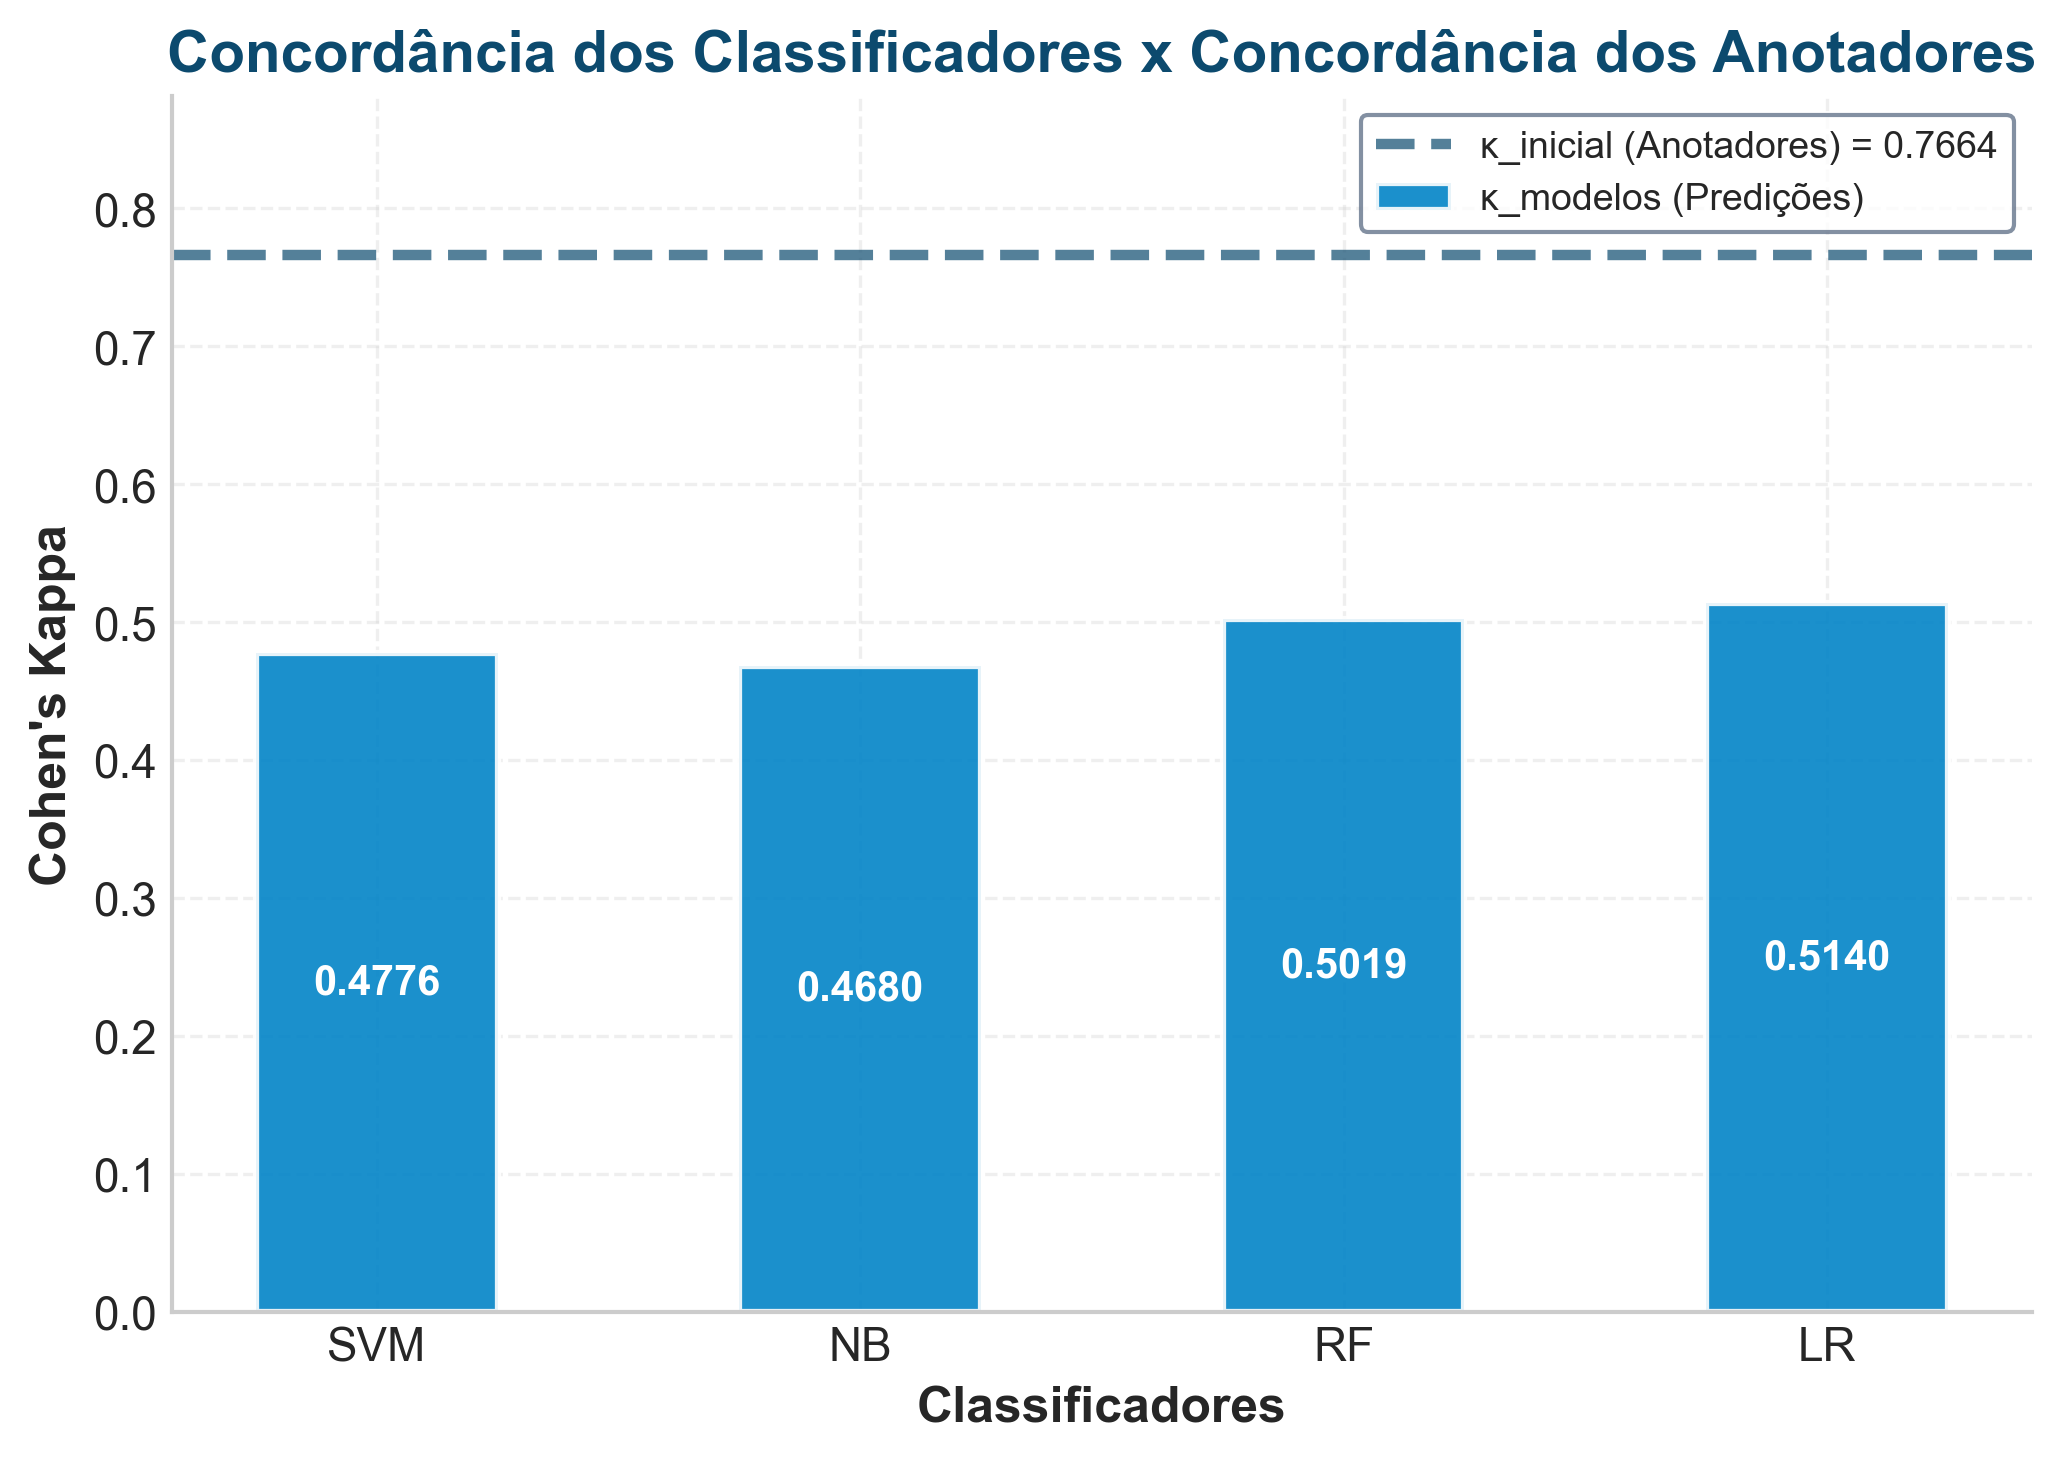
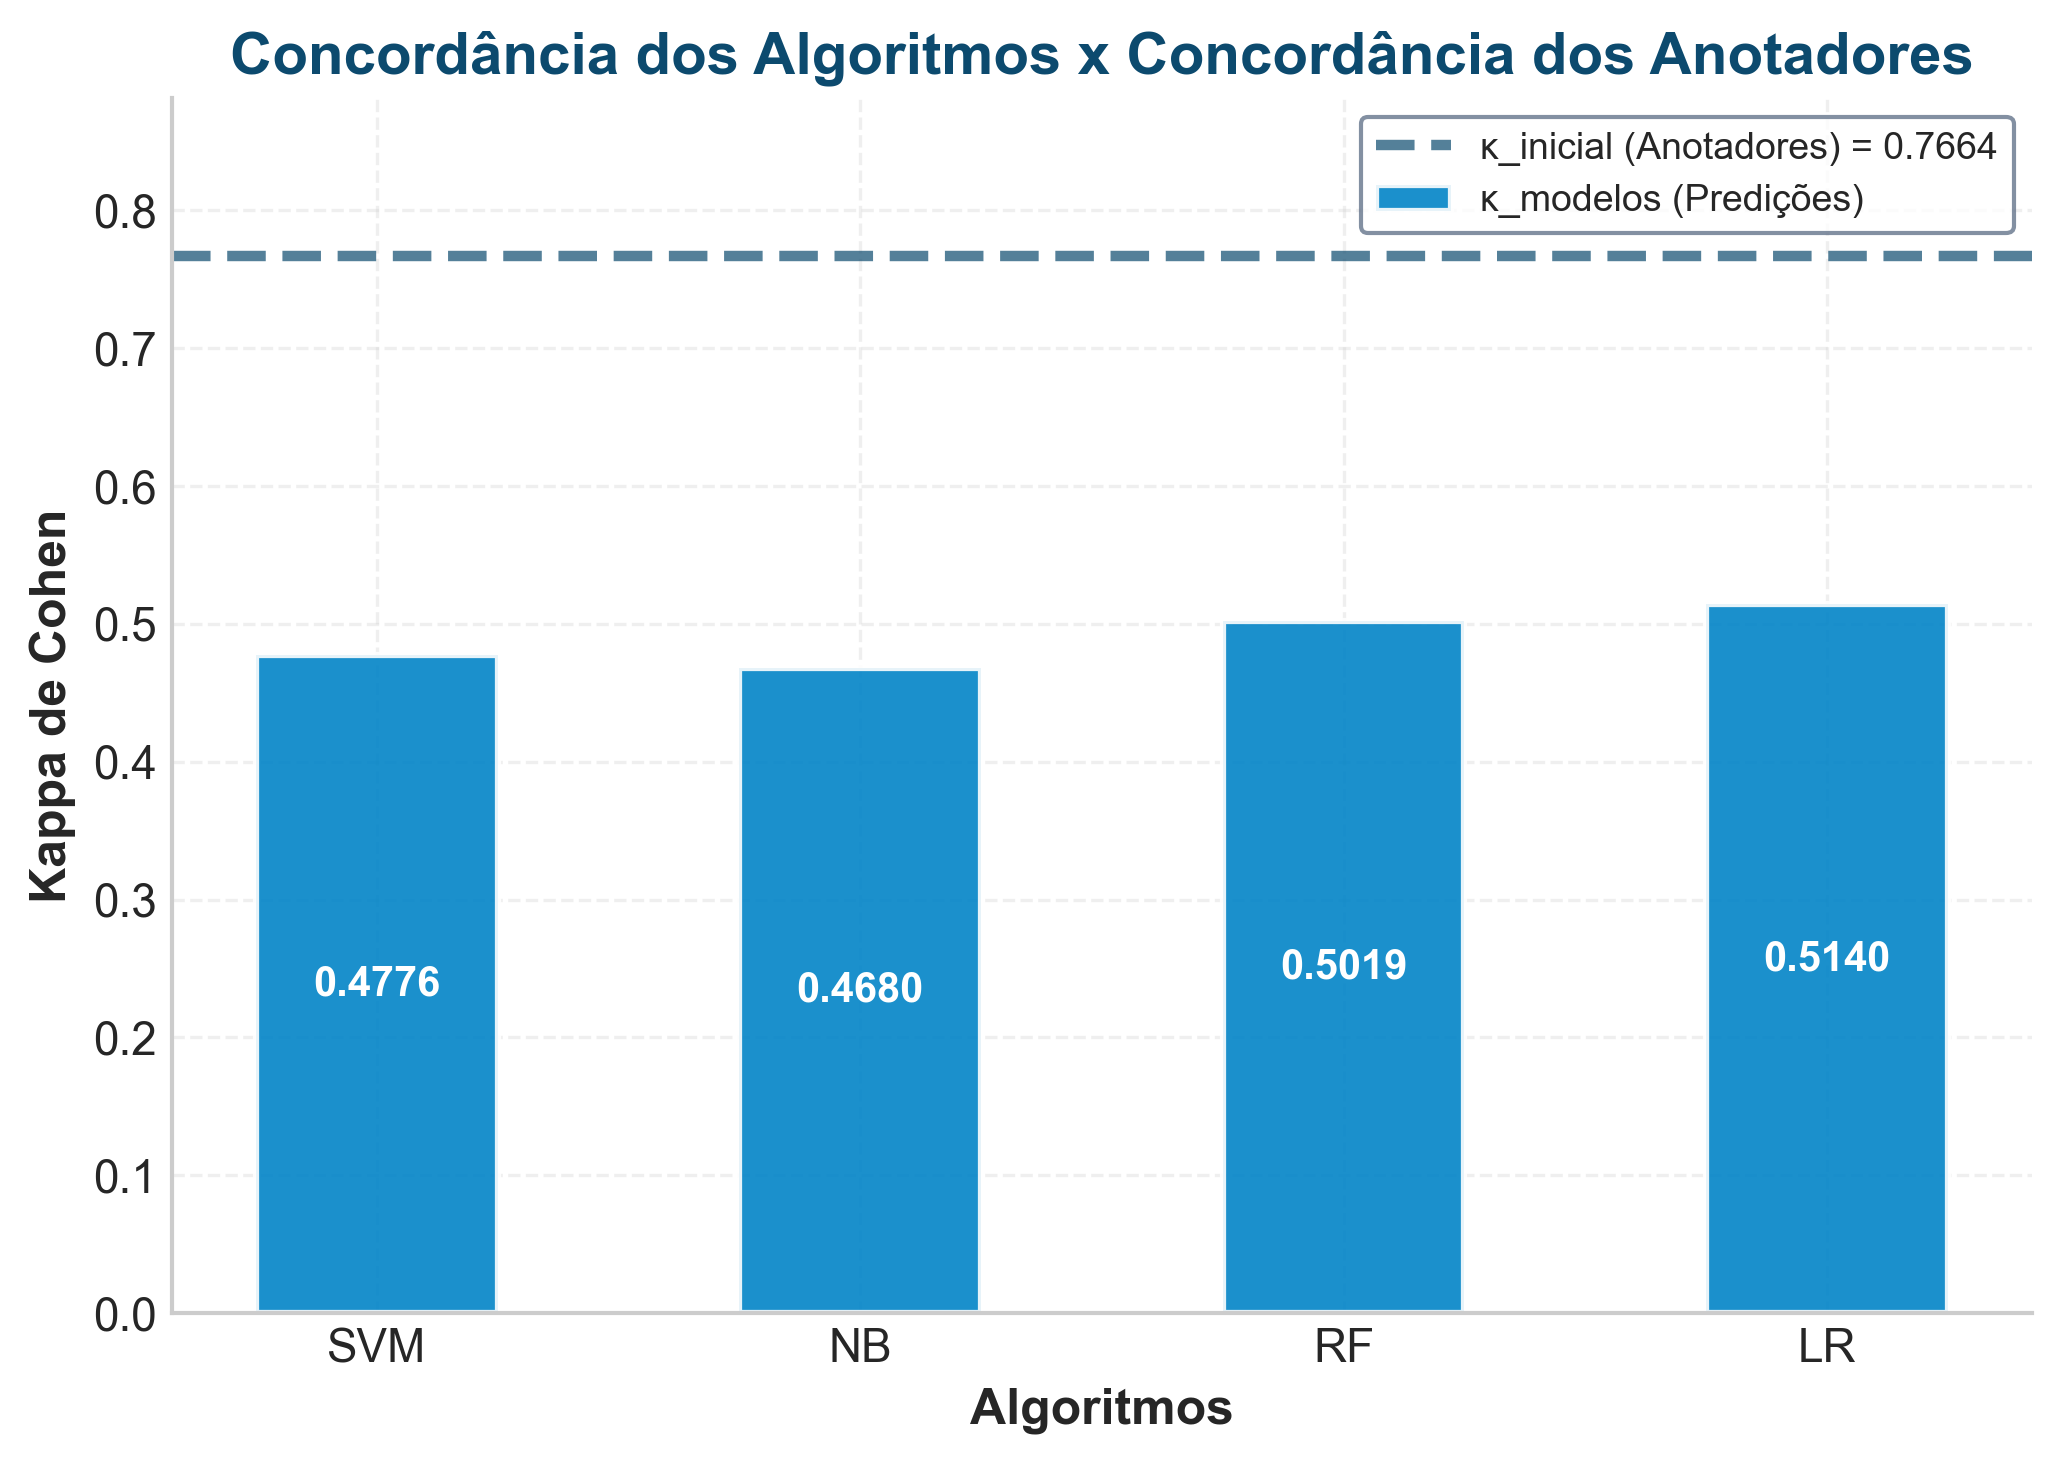
v4 mais correçoes

diff --git a/data/resultados_empiricos/insights_estatisticos_fase2.md b/data/resultados_empiricos/insights_estatisticos_fase2.md
@@ -1,6 +1,6 @@
 # Principais Insights Estatísticos — MADA Fase 2
 
-**Data de geração:** 28/06/2026 13:34:44
+**Data de geração:** 28/06/2026 22:54:21
 
 ## 1) Baseline entre anotadores
 - **Cohen's Kappa inicial:** `0.7664`
